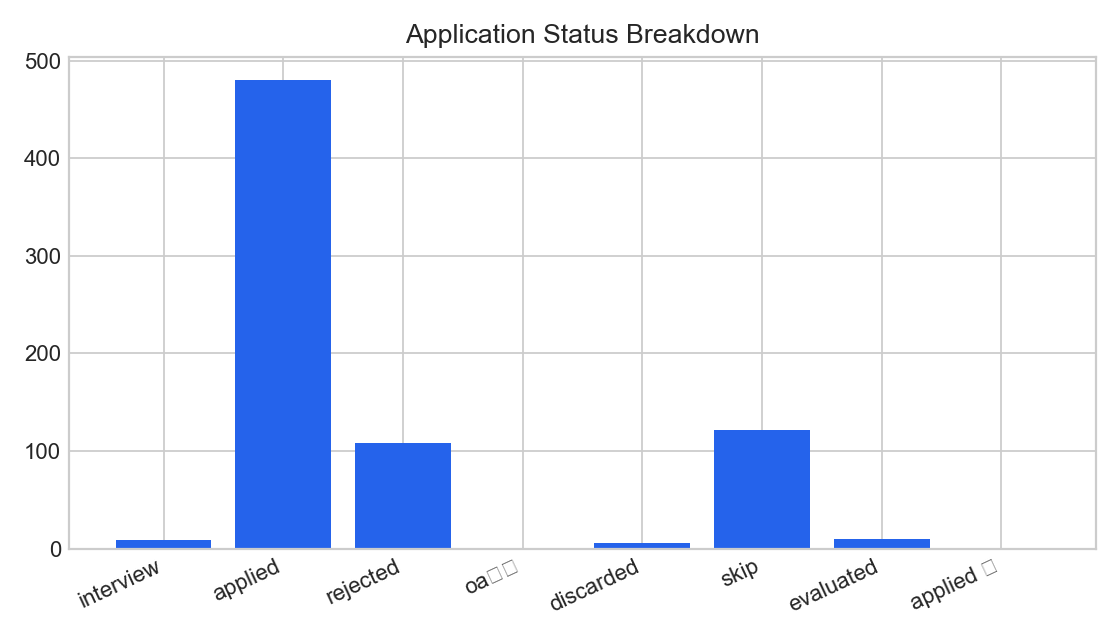
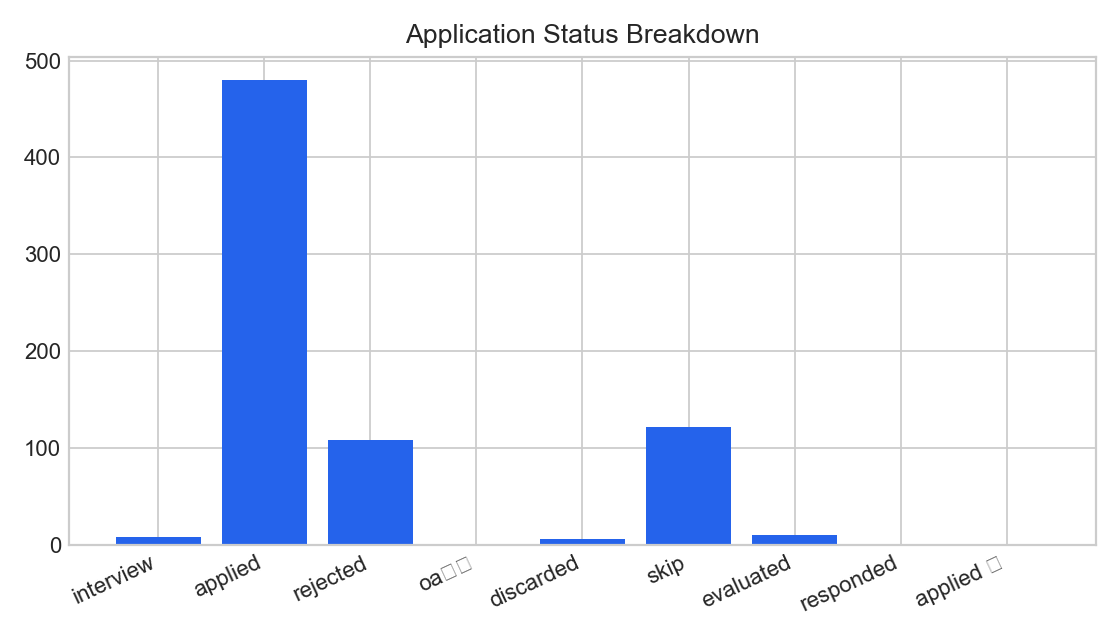
Correct Delta Air Lines status: OA completion is not an interview invite (Applied/Responded, not Interview) — same pattern as TikTok/Amazon OA cases

diff --git a/data/daily_summary.md b/data/daily_summary.md
@@ -1,6 +1,6 @@
 # Daily Job Search Summary
 
-_Last refreshed: 2026-08-10T23:54:59-07:00_
+_Last refreshed: 2026-08-10T23:58:54-07:00_
 
 ## Positioning
 
@@ -24,9 +24,10 @@ _Last refreshed: 2026-08-10T23:54:59-07:00_
 - applied ✅: 1
 - discarded: 6
 - evaluated: 10
-- interview: 9
+- interview: 8
 - oa完成: 1
 - rejected: 108
+- responded: 1
 - skip: 122
 
 ## Recent Activity
